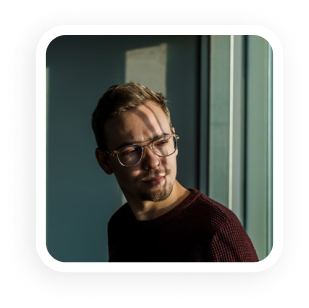
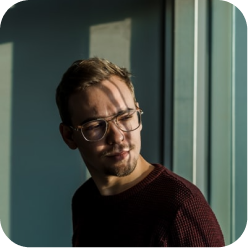
wip

diff --git a/assets/main.css b/assets/main.css
@@ -1,3 +1,14 @@
+.container {
+    width: 1140px;
+}
+@media only screen and (min-width: 360px) and (max-width: 995px) {
+    .container {
+        width: 483px;
+    }
+    .section2-container-1 .row{
+        width: 483px !important;
+    }
+}
 /* navbar start */
 .buy-now-button{
     text-decoration: none;
@@ -395,30 +406,33 @@ textarea{
 }
 
 .section2 .section2-container-1 img{
-    width: 295px;
+    width: 296.26px;
     height: 362px;
-    left: 36px;
-    top: 39px;
-
-    box-shadow: inset 0px 0px 0px 3px #000000, inset 0px 0px 0px 15px #FFFFFF;
     filter: drop-shadow(-10px 10px 30px rgba(0, 0, 0, 0.1));
 }
 .section2 .section2-container-1 .col-md-4{
-    display: flex;
-    justify-content: center;
-    width: 400px;
-    height: auto;
-    padding: 50px;
+    padding: 0;
+    width: 367px;
+    height: 440px;
     margin-bottom: 50px;
 }
 .section2 .section2-container-1 .col-md-4:nth-child(1){
     background: #6DC700 !important;
+    display: flex;
+    align-items: center;
+    justify-content: center;
 }
 .section2 .section2-container-1 .col-md-4:nth-child(2){
     background: #FF6DC5 !important;
+    display: flex;
+    align-items: center;
+    justify-content: center;
 }
 .section2 .section2-container-1 .col-md-4:nth-child(3){
     background: #4A00C7 !important;
+    display: flex;
+    align-items: center;
+    justify-content: center;
 }
 .section2-container-2 h2, .section2-container-3 h2 {
     font-family: 'Crucial' !important;
@@ -436,25 +450,26 @@ textarea{
     filter: drop-shadow(-10px 10px 30px rgba(0, 0, 0, 0.1));
 }
 .section2-container-2 .col-xl-4{
-    width: 400px !important;
+    width: 347px !important;
 }
 .section2-container-2 .col-lg-4{
     overflow: hidden;
-    width: 400px;
+    width: 347px;
     height: auto;
 }
 
-.section2-container-2 .col-lg-4 h3{
+.section2-container-2 .painting h3{
     height: 64px !important;
+    margin-bottom: 24px !important;
 }
-.section2-container-2 .col-lg-4 p{
+.section2-container-2 .painting p{
     font-family: 'Crucial' !important;
     font-style: normal;
     font-weight: 500;
     font-size: 26px;
     line-height: 24px;
 
-    margin: 24px auto !important;
+    margin-bottom: 24px !important;
 }
 .section2-container-2 small {
     width: 140px;
@@ -943,6 +958,35 @@ textarea{
     }
 }
 
+@media only screen and (min-width: 995px) and (max-width: 1200px) {
+    .section2 .section2-container-1 .col-md-4:nth-child(1) img {
+        background: #6DC700 !important;
+        padding: 3em;
+    }
+
+    .section2 .section2-container-1 .col-md-4:nth-child(2) img {
+        background: #FF6DC5 !important;
+        padding: 3em;
+    }
+
+    .section2 .section2-container-1 .col-md-4:nth-child(3) img {
+        background: #4A00C7 !important;
+        padding: 3em;
+    }
+
+    .section2 .section2-container-1 img {
+        width: 250px;
+        height: auto;
+    }
+
+    .section2 .section2-container-1 .col-md-4 {
+        display: flex;
+        justify-content: center;
+        width: 12px;
+        height: auto; 
+        margin-bottom: 50px;
+    }
+}
 @media only screen and (min-width: 360px) and (max-width: 995px) {
     /* home page */
     .section1 {
@@ -951,6 +995,31 @@ textarea{
         background-size: cover;
         background-position: center bottom;
         overflow: hidden;
+    }
+    .section2 .section2-container-1 .col-md-4:nth-child(1) img {
+        background: #6DC700 !important;
+        padding: 2em;
+    }
+
+    .section2 .section2-container-1 .col-md-4:nth-child(2) img {
+        background: #FF6DC5 !important;
+        padding: 2em;
+    }
+
+    .section2 .section2-container-1 .col-md-4:nth-child(3) img {
+        background: #4A00C7 !important;
+        padding: 2em;
+    }
+    .section2 .section2-container-1 img {
+        width: 150px;
+        height: auto;
+    }
+    .section2 .section2-container-1 .col-md-4 {
+        display: flex;
+        justify-content: center;
+        width: 12px;
+        height: auto; 
+        margin-bottom: 50px;
     }
     .art-demo{
         height: auto;

diff --git a/index.blade.html b/index.blade.html
@@ -104,14 +104,14 @@
             <!-- section 2 start -->
             <div class="section2">
                 <div class="container section2-container-1">
-                    <div class="row justify-content-lg-between justify-content-center justify-content-md-between mx-auto">
-                        <div class="col-md-4 col-lg-4 col-xl-4">
+                    <div class="row justify-content-lg-between justify-content-between justify-content-md-between mx-auto">
+                        <div class="col-xxl-4 col-xl-4 col-lg-4 col-md-4 col-sm-4 col-xs-4 col-4">
                             <img src="assets/images/art/demo1.png" alt="" />
                         </div>
-                        <div class="col-md-4 col-lg-4 col-xl-4">
+                        <div class="col-xxl-4 col-xl-4 col-lg-4 col-md-4 col-sm-4 col-xs-4 col-4">
                             <img src="assets/images/art/demo2.png" alt="" />
                         </div>
-                        <div class="col-md-4 col-lg-4 col-xl-4">
+                        <div class="col-xxl-4 col-xl-4 col-lg-4 col-md-4 col-sm-4 col-xs-4 col-4">
                             <img src="assets/images/art/demo3.png" alt="" />
                         </div>
                     </div>
@@ -160,7 +160,7 @@
                         </div>
                         <div class="col-lg-6 col-xl-4 col-md-6 px-lg-0 col-6 painting">
                             <a href="view-product.blade.html">
-                                <img class="w-100 p-3" src="assets/images/best-selling/bs1.png" alt="" />
+                                <img class="w-100 p-3" src="assets/images/best-selling/bs4.png" alt="" />
                                 <h3>Lorem Ipsum is simply dummy text of the printing and</h3>
                                 <p class="my-0">$5000</p>
                                 <div class="d-inline-flex align-items-center justify-content-end buy-now">
@@ -173,7 +173,7 @@
                         </div>
                         <div class="col-lg-6 col-xl-4 col-md-6 px-lg-0 col-6 painting">
                             <a href="view-product.blade.html">
-                                <img class="w-100 p-3" src="assets/images/best-selling/bs2.png" alt="" />
+                                <img class="w-100 p-3" src="assets/images/best-selling/bs5.png" alt="" />
                                 <h3>Why do we use it</h3>
                                 <p class="my-0">$5000</p>
                                 <div class="d-inline-flex align-items-center justify-content-end buy-now">
@@ -186,7 +186,7 @@
                         </div>
                         <div class="col-lg-6 col-xl-4 col-md-6 px-lg-0 col-6 painting">
                             <a href="view-product.blade.html">
-                                <img class="w-100 p-3" src="assets/images/best-selling/bs3.png" alt="" />
+                                <img class="w-100 p-3" src="assets/images/best-selling/bs6.png" alt="" />
                                 <h3>Lorem Ipsum is simply dummy text of the printing and</h3>
                                 <p class="my-0">$5000</p>
                                 <div class="d-inline-flex align-items-center justify-content-end buy-now">
@@ -367,7 +367,7 @@
     jQuery(document).ready(function ($) {
         $(".artist-loop").owlCarousel({
             loop: true,
-            margin: 10,
+            margin: 20,
             responsive: {
                 300: {
                     items: 1,
@@ -397,7 +397,7 @@
         });
         $(".blog-loop").owlCarousel({
             loop: true,
-            margin: 10,
+            margin: 20,
             responsive: {
                 300: {
                     items: 1,
